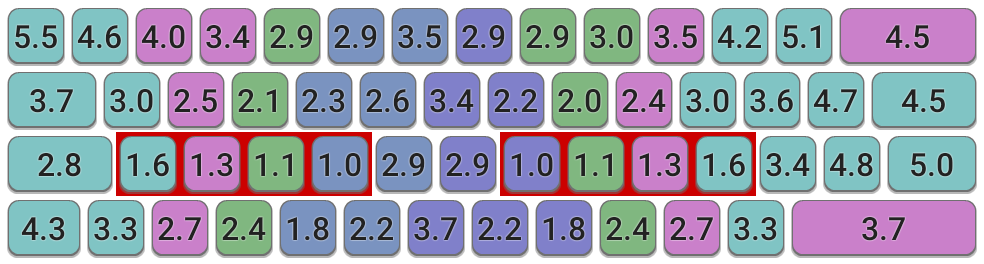
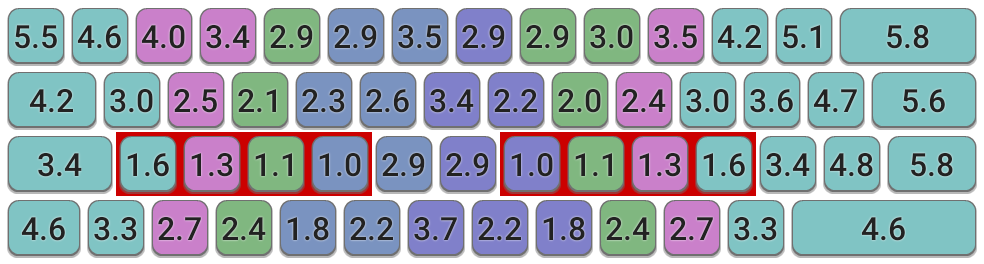
Further adjustments to effort model

diff --git a/keyboard-effort-grid/index.html b/keyboard-effort-grid/index.html
@@ -136,13 +136,13 @@ To identify keys by name, they are referred to by their Qwerty labels unless exp
 
 <p><a href="https://en.wikipedia.org/wiki/Fitts%27s_law">Fitts's Law</a> is a predictive model of human movement which can be used to estimate the time or effort it takes to perform a variety of actions, based on the distance and size of the target.</p>
 
-<p>This observation is used to inform the model of typing. While further-away keys require more effort, it is noted that this can be mitigated to some extent by the size of the <nobr>key &ndash; larger</nobr> keys are relatively easier to hit! Fitts's Law suggests that the distance-based penalty used this model should use a logarithmic, rather than linear scaling, so the formula used for the lateral distance-based penality is this:</p>
+<p>This observation is used to inform the model of typing. Fitts's Law suggests that the distance-based penalty should use logarithmic, rather than linear scaling, so in this model uses the formula used for the lateral distance-based penality is:</p>
 
 <pre style="text-align:center">
-F<sub>x</sub> = Log<sub>2</sub> ( 1 + P<sub><i>d</i></sub> D<sub><i>x</i></sub> / W)
+F<sub>x</sub> = Log<sub>2</sub> ( 1 + P<sub><i>d</i></sub> D<sub><i>x</i></sub>)
 </pre>
 
-<p>&nbsp;...where P<sub><i>d</i></sub> is a distance-based penalty constant, D<sub><i>x</i></sub> is the lateral distance to the target key, and W is the width of the key. The formula for the mesial (<i>y</i>) direction is equivalent.
+<p>&nbsp;...where P<sub><i>d</i></sub> is a distance-based penalty constant, D<sub><i>x</i></sub> is the lateral distance to the target key. The formula for the mesial component (<i>y</i>-direction) is equivalent.
 </p>
 
 </a>
